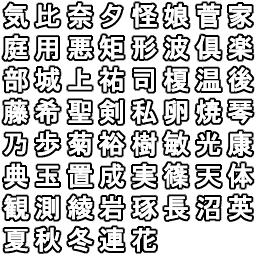
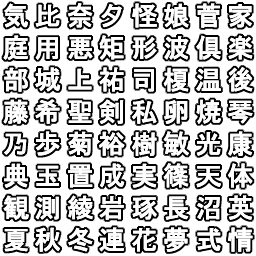
add characters
git-svn-id: https://svn.stepmania.com/svn/trunk/stepmania@5205 822b03c2-8f45-0410-a444-95660a741a6f

Changed region(s): [[0.625, 0.875, 1.0, 1.0]]

diff --git a/Utils/Font generation/Text.js b/Utils/Font generation/Text.js
@@ -30,7 +30,7 @@ var OutputDir = "c:/temp/stepmania/utils/Font generation/Output/";
  * store prototypes for each font page.  These should just be PSD files that contain
  * a single text layer with the characters we want.  The orientation, font, etc.
  * don't matter; they'll be overridden. */
-var JAFontPages = Array("main", "kanji 1", "kanji 2","kanji 3");
+var JAFontPages = Array("main", "kanji 1", "kanji 2","kanji 3","kanji 4");
 var KRFontPages = Array("jamo 1", "jamo 2", "jamo 3", "jamo 4");
 
 var Fonts = new Array(
